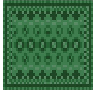
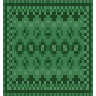
Ajout d'une texture de tapis pour l'exterieur et ajout de maisons à gauche du château

diff --git a/Zelda Like Groupe 3/Map.cpp b/Zelda Like Groupe 3/Map.cpp
@@ -75,6 +75,9 @@ void Prop::setTexture()
 	case CARPET:
 		if (!texture.loadFromFile("assets/carpet.png")) cerr << "Erreur lors du chargement de la texture de commode" << endl;
 		break;
+	case CARPET_OUTDOOR:
+		if (!texture.loadFromFile("assets/carpetE.png")) cerr << "Erreur lors du chargement de la texture de commode" << endl;
+		break;
 	case TREE_TOP:
 		if (!texture.loadFromFile("assets/treeTop.png")) cerr << "Erreur lors du chargement de la texture de commode" << endl;
 		break;
@@ -277,6 +280,8 @@ void PropManager::readFile()
 				creerProp(FENCES_H, position.x, position.y, SECOND_LAYER, true, false);
 			else if (c == 'R')
 				creerProp(FENCES_V, position.x, position.y, SECOND_LAYER, true, false);
+			else if (c == 'S')
+				creerProp(CARPET_OUTDOOR, position.x, position.y, SECOND_LAYER, false, true);
 
 			position.x += 96;
 		}

diff --git a/Zelda Like Groupe 3/Map.h b/Zelda Like Groupe 3/Map.h
@@ -6,7 +6,7 @@ using namespace std;
 using namespace sf;
 enum Id {
 	STONE, HOUSEFLOOR, GRASS, HOUSEUR, HOUSEUL, HOUSEDL, HOUSEDR, TOWER_BOTTOM, TOWER_TOP, TOWER_BASE, CWALLH, CWALLV, HOUSEWALL, HOUSEROOFH, HOUSEROOFR, HOUSEROOFL,
-	BED_TOP, BED_BOTTOM, KITCHEN, DRESSER, SINK, COUNTER, CARPET, TREE_BOTTOM, TREE_TOP, GUARD_HOUSE_DL, GUARD_HOUSE_DR, GUARD_HOUSE_UL, GUARD_HOUSE_UR, SPIKES_T, SPIKES_F,
+	BED_TOP, BED_BOTTOM, KITCHEN, DRESSER, SINK, COUNTER, CARPET, CARPET_OUTDOOR, TREE_BOTTOM, TREE_TOP, GUARD_HOUSE_DL, GUARD_HOUSE_DR, GUARD_HOUSE_UL, GUARD_HOUSE_UR, SPIKES_T, SPIKES_F,
 	INTERRUPTOR_T, INTERRUPTOR_F, KEY, DOOR, FENCES_H, FENCES_V
 };
 enum Layer {FIRST_LAYER, SECOND_LAYER};
